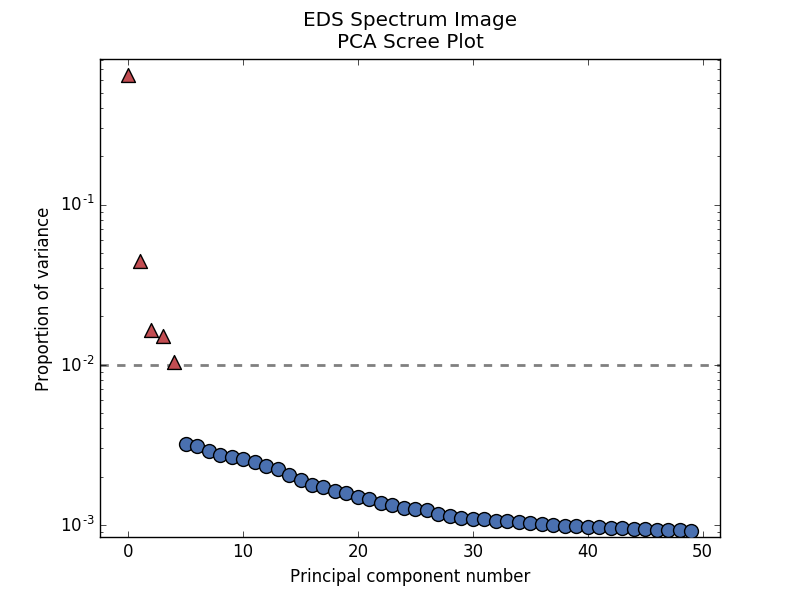
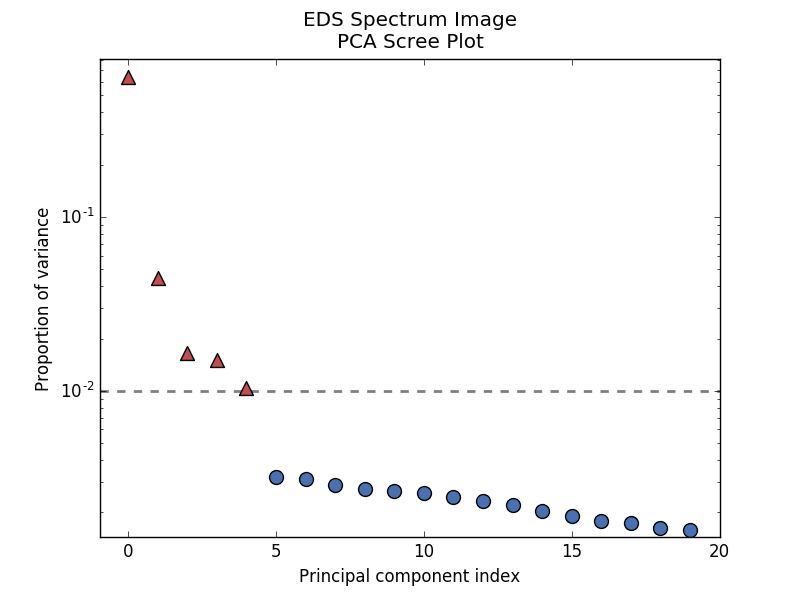
Change to dictionary for xaxis formatting; update docs

diff --git a/hyperspy/learn/mva.py b/hyperspy/learn/mva.py
@@ -36,7 +36,7 @@ from hyperspy.learn.mlpca import mlpca
 from hyperspy.learn.rpca import rpca_godec, orpca
 from scipy import linalg
 from hyperspy.misc.machine_learning.orthomax import orthomax
-from hyperspy.misc.utils import stack
+from hyperspy.misc.utils import stack, ordinal
 import numpy as np
 
 
@@ -960,7 +960,7 @@ class MVA():
         return ax
 
     def scree_plot(self, n=50, log=True, cutoff=0.01, signal_num=0,
-                   start_at=0, signal_fmt=None, noise_fmt=None,
+                   xaxis=None, signal_fmt=None, noise_fmt=None,
                    axes_titles=None, fig=None, ax=None,
                    **kwargs):
         """Plot the decomposition explained variance ratio vs index number
@@ -981,9 +981,16 @@ class MVA():
             (i.e. the signal components as opposed to noise).
             Only used if `cutoff` is None, will be automatically determined
             otherwise
-        start_at : int
-            Number to use as starting point for numbering of the principal
-            components (usually 0 or 1)
+        xaxis : dict or None
+            Dictionary defining type of labeling for x-axis. Should
+            have two keys: ``'type'`` and ``'labeling'``.
+            ``xaxis['type']`` should have str value ``'index'`` or
+            ``'number'``, and is used to determine if axis will be labeled
+            starting at 0 (i.e. "pythonic index" labeling) or at 1 (number
+            labeling).
+            ``xaxis['labeling']`` should have str value ``'ordinal'`` or
+            ``'cardinal'``, and is used to determine the format of the tick
+            labels (i.e. "1st" or "1", respectively).
         signal_fmt : dict
             Dictionary of matplotlib formatting values for the signal
             components
@@ -1044,9 +1051,24 @@ class MVA():
                          'marker': 'o',
                          'zorder': 3}
 
+        # Sane defaults for xaxis labeling
+        if xaxis is None:
+            xaxis = {}
+
+        if 'type' not in xaxis:
+            xaxis['type'] = 'index'
+            _logger.warning('\'type\' not found in xaxis dict; '
+                            'defaulting to \'index\'')
+
+        if 'labeling' not in xaxis:
+            labeling = 'cardinal' if xaxis['type'] == 'index' else 'ordinal'
+            xaxis['labeling'] = labeling
+            _logger.warning('\'labeling\' not found in xaxis dict; '
+                            'defaulting to \'{}\''.format(labeling))
+
         if axes_titles is None:
             axes_titles = {'y': "Proportion of variance",
-                           'x': "Principal component number"}
+                           'x': "Principal component {}".format(xaxis['type'])}
 
         if n < s.axes_manager[-1].size:
             s = s.isig[:n]
@@ -1068,16 +1090,30 @@ class MVA():
                        zorder=1)
 
         if signal_num > 0:
-            ax.scatter(range(start_at, signal_num + start_at),
+            ax.scatter(range(signal_num),
                        s.isig[:signal_num].data,
                        **signal_fmt)
-            ax.scatter(range(signal_num + start_at, n + start_at),
+            ax.scatter(range(signal_num, n),
                        s.isig[signal_num:n].data,
                        **noise_fmt)
         else:
-            ax.scatter(range(start_at, n + start_at),
+            ax.scatter(range(n),
                        s.isig[:n].data,
                        **noise_fmt)
+
+        if xaxis['type'] == 'index':
+            locs = ax.get_xticks()
+            if xaxis['labeling'] == 'ordinal':
+                ax.set_xticklabels([ordinal(int(i)) for i in locs])
+            else:
+                ax.set_xticklabels([int(i) for i in locs])
+
+        if xaxis['type'] == 'number':
+            locs = ax.get_xticks()
+            if xaxis['labeling'] == 'ordinal':
+                ax.set_xticklabels([ordinal(int(i + 1)) for i in locs])
+            else:
+                ax.set_xticklabels([int(i + 1) for i in locs])
 
         ax.set_ylabel(axes_titles['y'])
         ax.set_xlabel(axes_titles['x'])

diff --git a/doc/user_guide/mva.rst b/doc/user_guide/mva.rst
@@ -83,7 +83,7 @@ To obtain a scree plot for your dataset, run the
 
 .. code-block:: python
 
-    >>> ax = s.scree_plot()
+    >>> ax = s.scree_plot(n=20)
 
 .. figure::  images/screeplot.png
    :align:   center
@@ -99,7 +99,19 @@ customized to develop a figure of your liking. See the documentation of
 
 Note that in the figure, the first component has index 0. This is because
 Python uses zero based indexing i.e. the initial element of a sequence is found
-at index 0.
+at index 0. To switch to a "number-based" (rather than "index-based")
+notation, provide a dictionary defining the axis type to the method:
+
+.. code-block:: python
+
+    >>> ax = s.scree_plot(n=20, xaxis={'type':'number',
+    >>>                                'labeling':'ordinal'})
+
+.. figure::  images/screeplot2.png
+   :align:   center
+   :width:   500
+
+   PCA scree plot with number-based axis labeling
 
 .. versionadded:: 0.7
 
